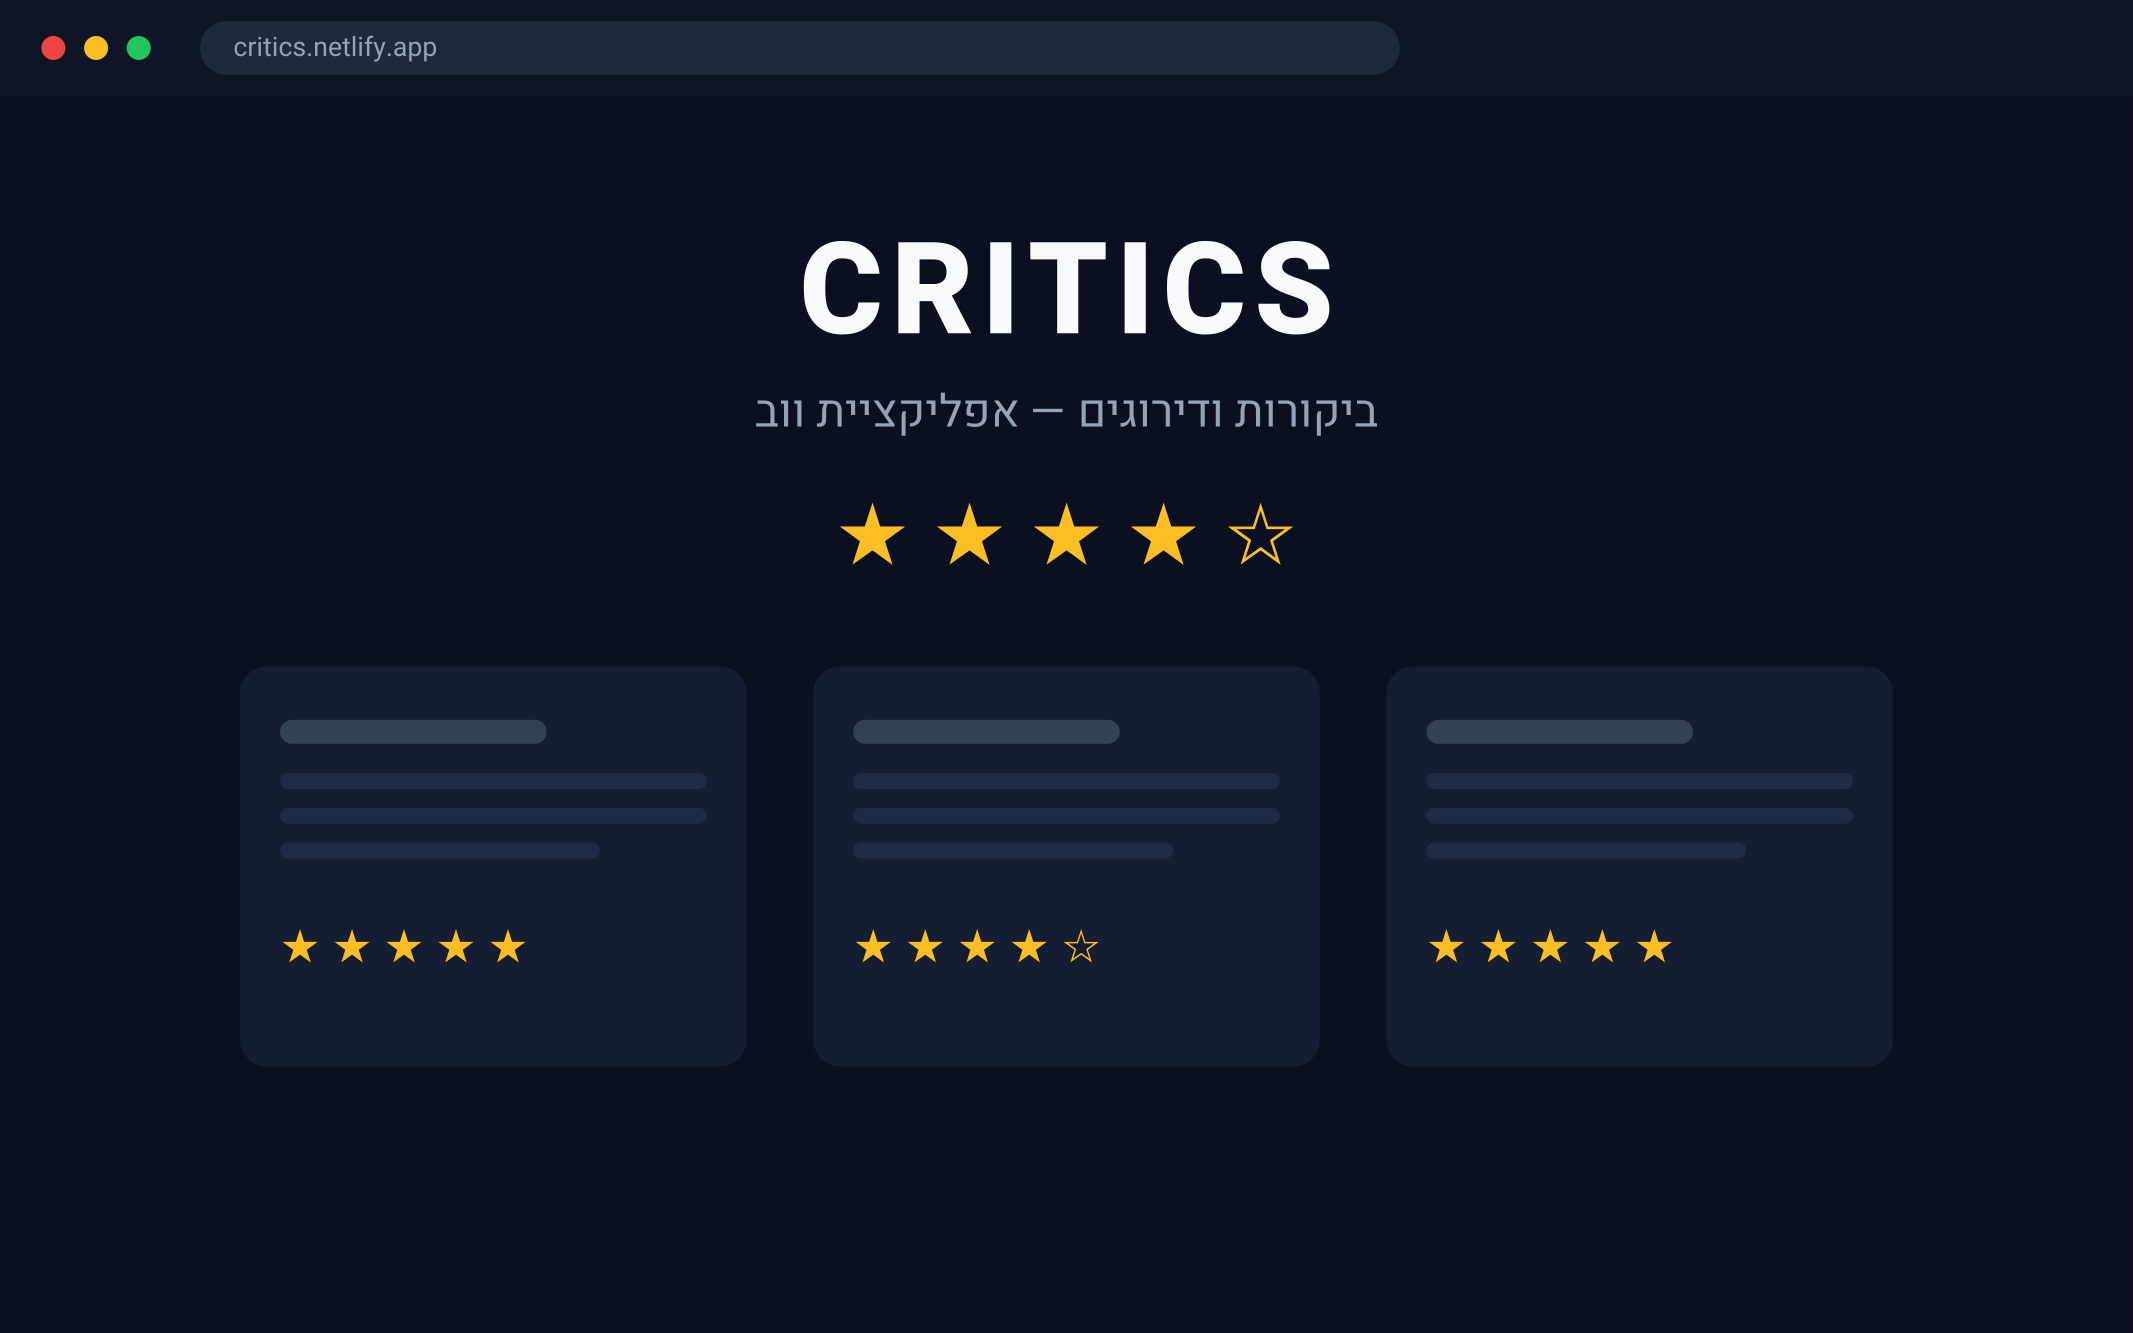
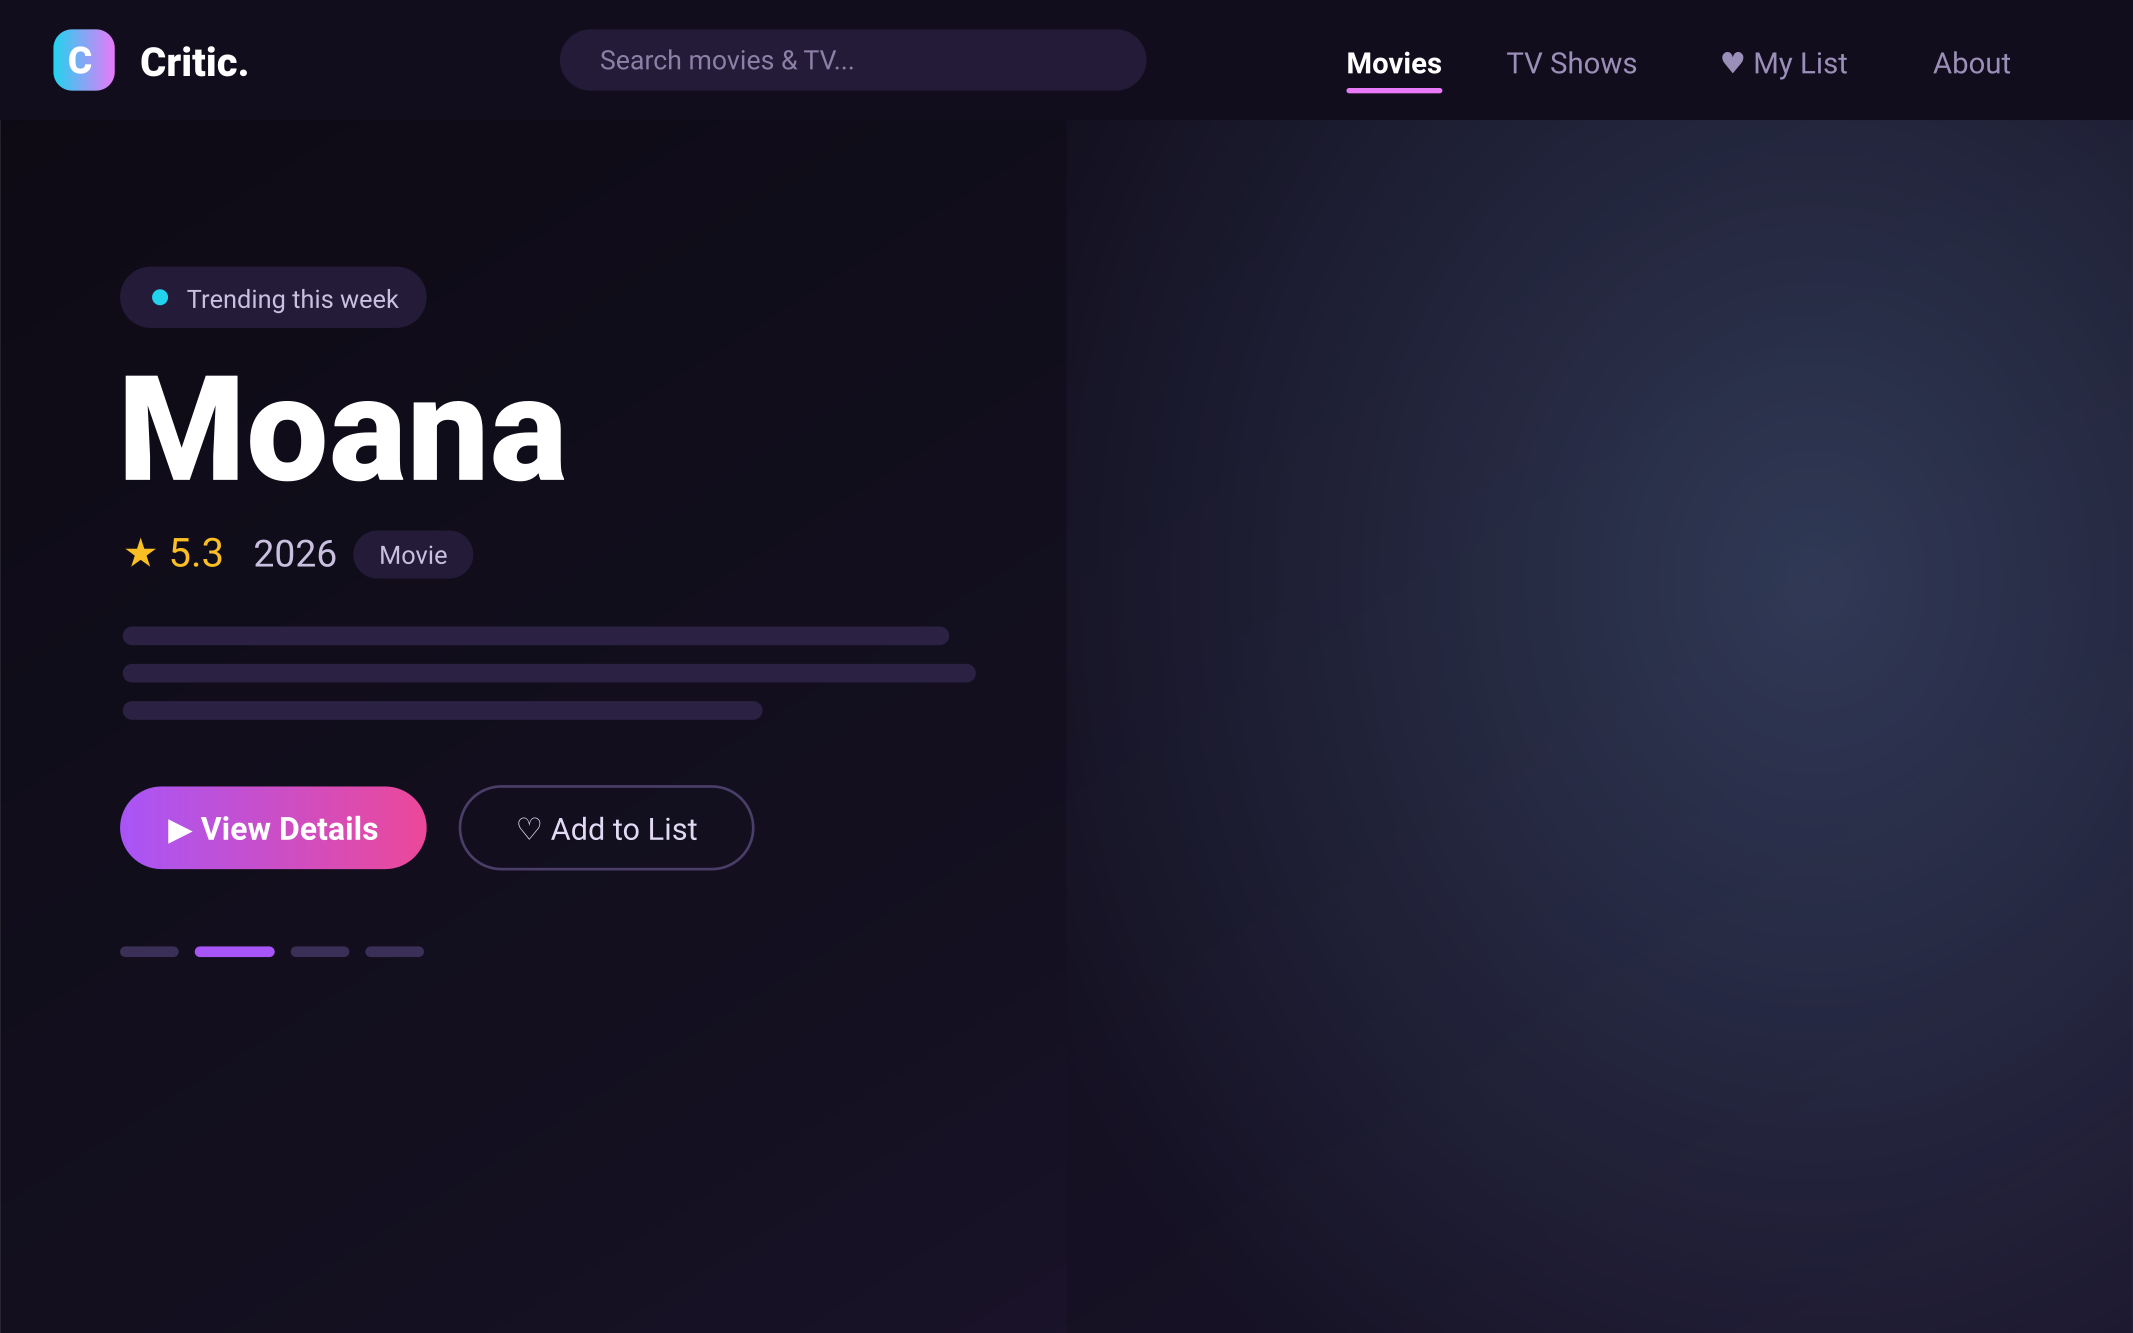
Match portfolio entries to the real sites the owner showed
The owner shared real screenshots of all three new projects, so the
entries now tell the true story:
- Critic. — a movies & TV web app (search, ratings, personal watch
  list, streaming-style dark UI), not a generic reviews app.
- I-Games (was 'Memory Game') — a games portal with six browser games,
  three of them against a real AI opponent. Renamed and reframed: this
  directly showcases the AI capability Pixelia sells.
- Uriel — an elegant bilingual (he/en) furniture-brand site with the
  'עוצב לנוחות מושלמת' hero.

Preview images regenerated as faithful recreations of the real designs
(the pasted screenshots aren't available as files in this environment;
originals can drop in whenever they're sent as attachments).

Claude-Session: https://claude.ai/code/session_01QrUCcX2NG6Yx55C9hcDnA9

diff --git a/components/sections/ProjectsSection.tsx b/components/sections/ProjectsSection.tsx
@@ -56,34 +56,34 @@ const projects: Project[] = [
     name: 'Uriel Furniture',
     url: 'https://uriel-furniture.vercel.app/',
     domain: 'uriel-furniture.vercel.app',
-    tagline: 'אתר תצוגה לעסק רהיטים',
+    tagline: 'אתר תדמית למותג רהיטים',
     description:
-      'אתר תצוגה לעסק רהיטים — קטלוג נקי וחם שמציג את המוצרים בצורה מזמינה ומקצועית, עם דגש על תמונות ואווירה.',
+      'אתר תדמית אלגנטי למותג רהיטים — "עוצב לנוחות מושלמת": קולקציה מעוצבת, אווירה נקייה ושלווה, ותמיכה דו-לשונית עברית/אנגלית.',
     image: '/images/projects/uriel-furniture.png',
-    highlights: ['קטלוג מוצרים', 'עיצוב חם ונקי', 'גלריית תמונות', 'מותאם מובייל'],
-    tags: ['אתר תדמית', 'קטלוג', 'רהיטים'],
+    highlights: ['עיצוב אלגנטי ושליו', 'הצגת קולקציה', 'דו-לשוני עברית/אנגלית', 'מותאם מובייל'],
+    tags: ['אתר תדמית', 'רהיטים', 'דו-לשוני'],
   },
   {
-    name: 'Critics',
+    name: 'Critic.',
     url: 'https://critics.netlify.app/',
     domain: 'critics.netlify.app',
-    tagline: 'אפליקציית ווב — ביקורות ודירוגים',
+    tagline: 'אפליקציית סרטים וסדרות',
     description:
-      'אפליקציית ווב אינטראקטיבית לביקורות ודירוגים עם ממשק מהיר וריאקטיבי — הדגמה ליכולת לבנות אפליקציות מלאות בדפדפן, לא רק אתרים.',
+      'אפליקציית ווב מלאה לסרטים וסדרות בסגנון שירותי סטרימינג — חיפוש, דירוגים, טרנדים ורשימת צפייה אישית, בעיצוב כהה ומלוטש.',
     image: '/images/projects/critics.png',
-    highlights: ['ממשק ריאקטיבי מהיר', 'ניהול תוכן דינמי', 'עיצוב כהה ונקי', 'React'],
-    tags: ['אפליקציית ווב', 'React', 'דירוגים'],
+    highlights: ['קטלוג סרטים וסדרות', 'חיפוש ודירוגים', 'רשימת צפייה אישית', 'עיצוב סטרימינג כהה'],
+    tags: ['אפליקציית ווב', 'React', 'סרטים וסדרות'],
   },
   {
-    name: 'Memory Game',
+    name: 'I-Games',
     url: 'https://memory-game-tawny-eta.vercel.app/',
-    domain: 'memory-game … vercel.app',
-    tagline: 'משחק דפדפן אינטראקטיבי',
+    domain: 'i-games · vercel.app',
+    tagline: 'פורטל משחקים — עם יריבי AI אמיתיים',
     description:
-      'משחק זיכרון מהיר וממכר שבנינו להנאה — והוכחה חיה ליכולות אינטראקציה, אנימציות ולוגיקת משחק בדפדפן. נסו לנצח 😉',
+      'שישה משחקי דפדפן במקום אחד — שלושה מהם מול יריב AI חושב אמיתי. בלי הורדות, בלי הרשמה, פשוט משחקים. הוכחה חיה ליכולות ה-AI והאינטראקציה שאנחנו בונים.',
     image: '/images/projects/memory-game.png',
-    highlights: ['אנימציות חלקות', 'לוגיקת משחק', 'מונה מהלכים', 'כיף לשחק'],
-    tags: ['משחק', 'אינטראקטיבי', 'JavaScript'],
+    highlights: ['6 משחקים בדפדפן', '3 יריבי AI חכמים', 'בלי הרשמה — לוחצים ומשחקים', 'אנימציות ולוגיקת משחק'],
+    tags: ['משחקים', 'AI', 'אינטראקטיבי'],
   },
 ];
 